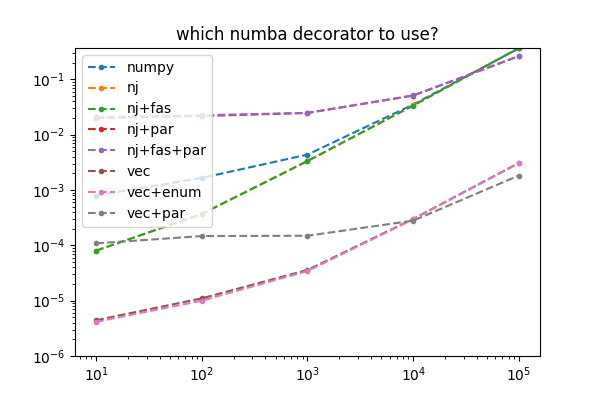
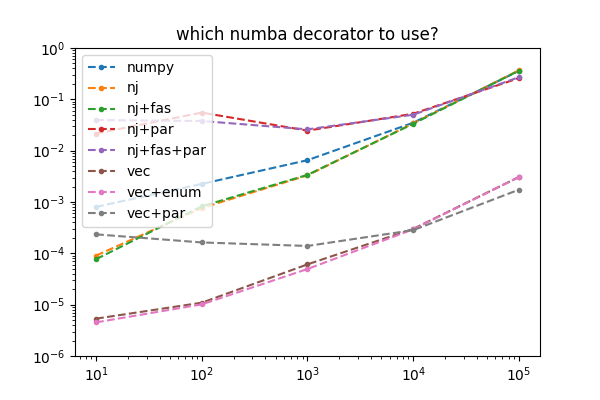
updated

diff --git a/src/Util/Benchmark.py b/src/Util/Benchmark.py
@@ -17,7 +17,11 @@ def make_figure(x : list, result : dict, save_path : str, title=None, _ax=None):
     ax.set_xscale("log")
 
     ylim_upper =  max( [max( li ) for li in result.values()] )
-    ylim_upper = max( [ylim_upper, 1E-1] )
+    i = -6
+    while 10**(i) <= ylim_upper:
+        i += 1
+    ylim_upper = 10**(i)
+
     ax.set_ylim(1E-6, ylim_upper)
 
     if title is not None:
